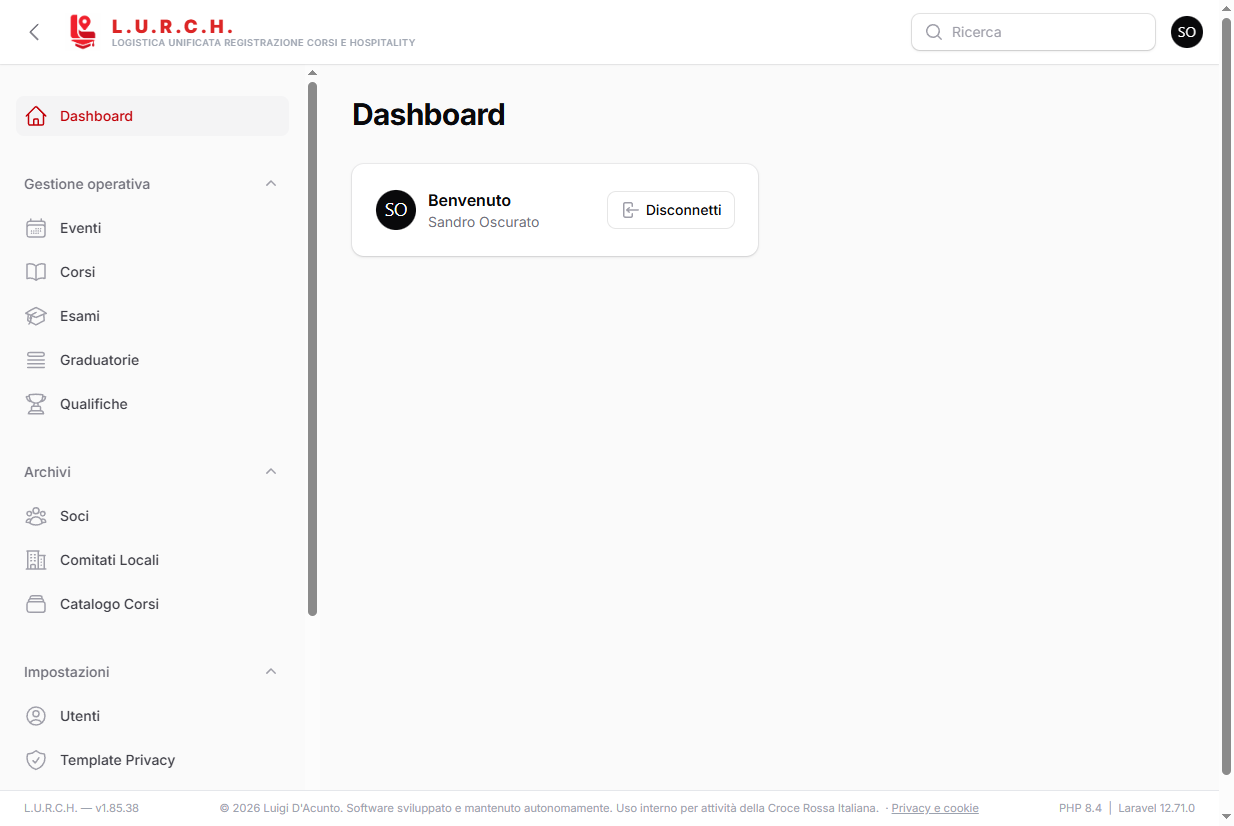
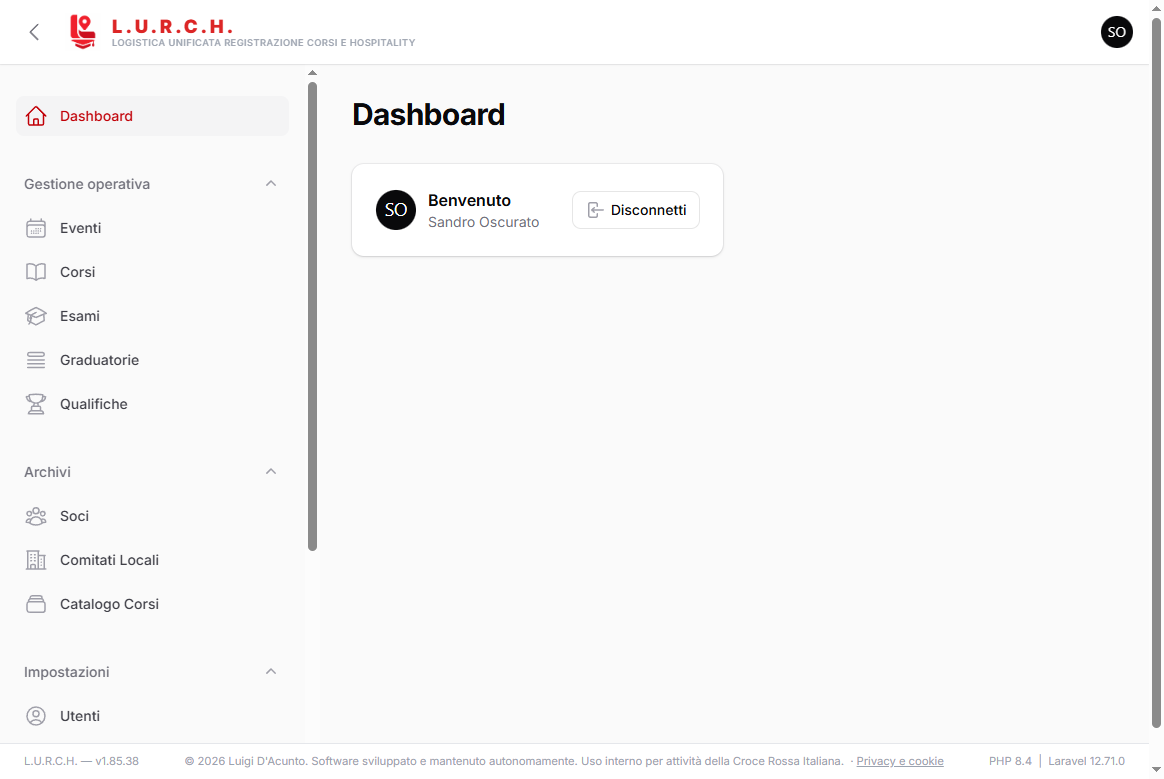
fix: scheda operatore a tutta larghezza, elenco Eventi senza colonna ridondante
- scheda dell'operatore: sezione dei permessi a tutta larghezza su tre
  colonne
- elenco Eventi: tolta la colonna «Gestione», la riga apre già la gestione
- guida: schermate di «Primi passi» rifatte alla larghezza della finestra
  di lavoro, aggiunta quella della pagina Modifica password

diff --git a/app/Filament/Resources/UserResource.php b/app/Filament/Resources/UserResource.php
@@ -264,10 +264,11 @@ class UserResource extends Resource
                         ->label('Permessi abilitati')
                         ->options(array_map(fn (array $p) => $p[0], $permessi))
                         ->descriptions(array_map(fn (array $p) => $p[1], $permessi))
-                        ->columns(2)
+                        ->columns(3)
                         ->bulkToggleable(),
                 ])
-                ->visible(fn (Get $get) => $get('ruolo') === 'operatore'),
+                ->visible(fn (Get $get) => $get('ruolo') === 'operatore')
+                ->columnSpanFull(),
         ]);
     }
 

diff --git a/app/Filament/Resources/EventoResource.php b/app/Filament/Resources/EventoResource.php
@@ -878,13 +878,6 @@ class EventoResource extends Resource
                     ->visible(fn () => static::canCreate()),
             ])
             ->columns([
-                Tables\Columns\TextColumn::make('_gestione')
-                    ->label('')
-                    ->getStateUsing(fn () => 'Gestione')
-                    ->badge()
-                    ->color('gray')
-                    ->icon('heroicon-o-chart-bar'),
-
                 Tables\Columns\TextColumn::make('nome')
                     ->searchable()
                     ->sortable()

diff --git a/CHANGELOG.md b/CHANGELOG.md
@@ -14,6 +14,7 @@ Le voci fino alla 1.85.16 sono ricostruite dagli oggetti dei commit. Le modifich
 - fix: l'icona dell'app dei soci (schermata Home del telefono) è il logo L.U.R.C.H. al posto della croce provvisoria
 - fix: tolta la casella «Ricerca» dalla barra in alto del pannello, che trovava solo gli esami; ogni sezione ha la propria ricerca
 - fix: nella scheda di un operatore i permessi hanno nomi in italiano con una riga di spiegazione; non compaiono più quelli che non avevano alcun effetto (restano assegnati se già lo erano)
+- fix: nell'elenco Eventi tolta la colonna «Gestione», che ripeteva l'apertura della riga
 - fix: «Importa Iscritti» nella gestione del corso è disponibile anche all'admin locale, per i corsi degli eventi del suo comitato
 - fix: in alcuni moduli (istruzioni di importazione di soci, qualifiche, iscritti e staff, spiegazione del badge, pasti dello staff) compariva un'etichetta tecnica sopra il testo; ora non c'è più
 - fix: «Modifica password» compare solo a chi ha una password temporanea e serve a cambiarla; tolto l'invito a impostarne una, che il primo accesso via email avrebbe comunque cancellato

diff --git a/docs/01-pannello/01-primi-passi/04-password-e-profilo.md b/docs/01-pannello/01-primi-passi/04-password-e-profilo.md
@@ -12,6 +12,9 @@ Nel pannello si entra con l'email (vedi [Accesso al pannello](01-accesso.md)): d
 
 Finché hai quella password, nel menu personale compare **Modifica password**: inserisci la password attuale e la nuova due volte (almeno 8 caratteri, diversa dalla precedente), poi premi **Aggiorna password**.
 
+<!-- screenshot: route=/admin/modifica-password · v1.85.38-dev · 2026-11-17 -->
+![Pagina Modifica password](../../immagini/password/modifica-password.png)
+
 Appena le email tornano a funzionare e rientri con il link o il codice, la password si disattiva da sola e la voce **Modifica password** sparisce dal menu.
 
 ## Aspetto chiaro o scuro
